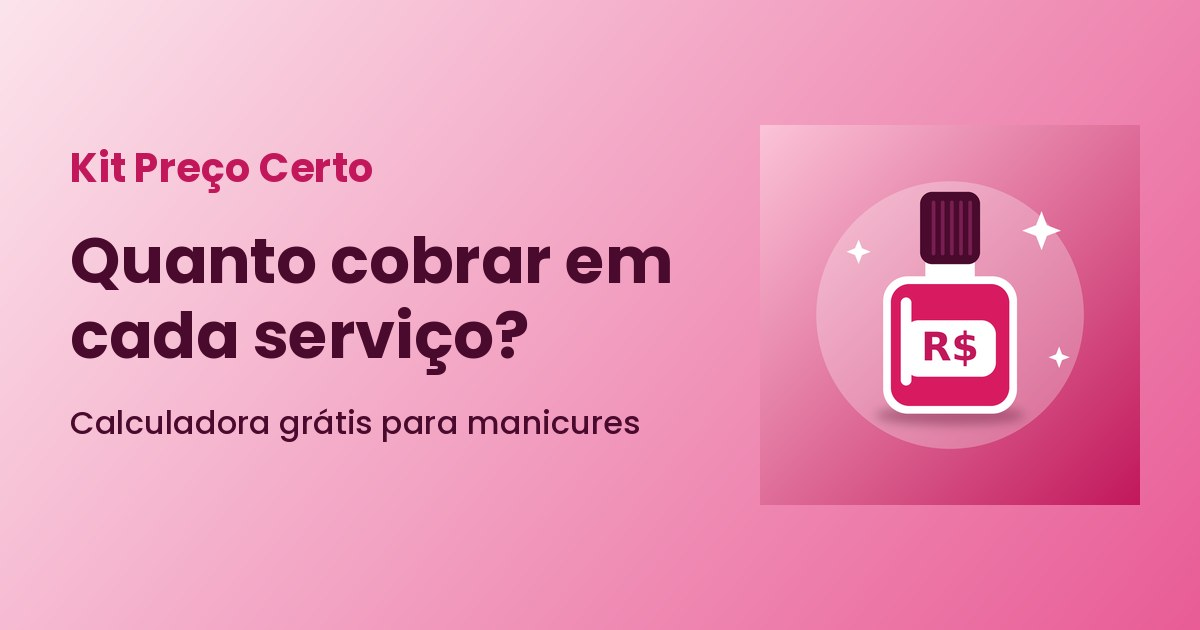
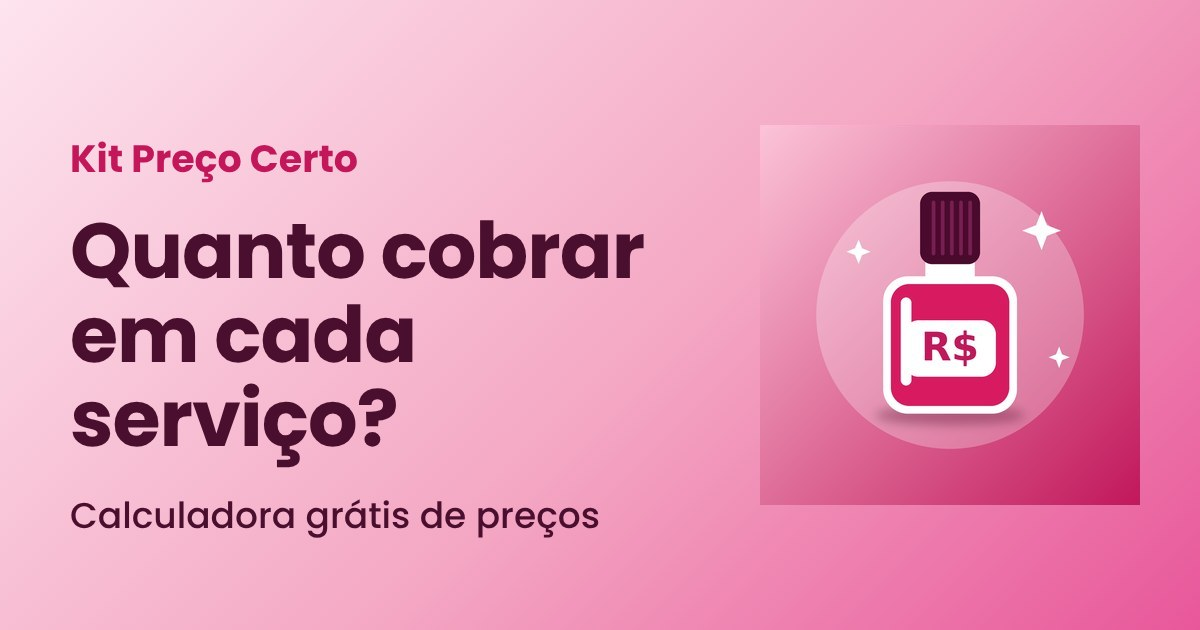
Previa de link: og:image absoluto, metas completas e capa generica (nao so manicure)
Claude-Session: https://claude.ai/code/session_01VVXSWQenri3WwETC67snQx

diff --git a/index.html b/index.html
@@ -2,7 +2,7 @@
 <html lang="pt-BR"><head><meta charset="utf-8"><meta name="viewport" content="width=device-width, initial-scale=1">
 <title>Calculadora de preço grátis para serviços · Kit Preço Certo</title>
 <meta name="description" content="Calculadora grátis para você descobrir quanto cobrar em cada serviço: material, tempo, aluguel, maquininha e lucro. Planilha Excel e versão para usar no celular.">
-<meta property="og:title" content="Como calcular o preço certo dos seus serviços sem trabalhar no prejuízo. Calculadora grátis"><meta property="og:description" content="Descubra em minutos quanto cobrar em cada serviço."><meta property="og:image" content="capa.jpg"><meta property="og:type" content="website">
+<meta property="og:title" content="Como calcular o preço certo dos seus serviços sem trabalhar no prejuízo. Calculadora grátis"><meta property="og:description" content="Descubra em minutos quanto cobrar em cada serviço."><meta property="og:image" content="https://kitprecocerto.com.br/capa.jpg"><meta property="og:image:type" content="image/jpeg"><meta property="og:image:width" content="1200"><meta property="og:image:height" content="630"><meta property="og:url" content="https://kitprecocerto.com.br/"><meta property="og:site_name" content="Kit Preço Certo"><meta property="og:locale" content="pt_BR"><meta property="og:type" content="website"><meta name="twitter:card" content="summary_large_image"><link rel="canonical" href="https://kitprecocerto.com.br/">
 <link rel="icon" type="image/png" href="favicon.png"><link rel="apple-touch-icon" href="apple-touch-icon.png">
 <link rel="preconnect" href="https://fonts.googleapis.com"><link rel="preconnect" href="https://fonts.gstatic.com" crossorigin>
 <link href="https://fonts.googleapis.com/css2?family=Playfair+Display:wght@700&family=Poppins:wght@400;500;600;700&display=swap" rel="stylesheet">
